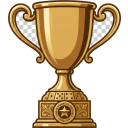
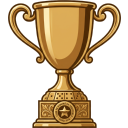
Quitar el fondo que quedaba atrapado dentro de las asas de la copa
El recorte entra desde el borde de la imagen, asi que no llegaba al
hueco cerrado del aro de las asas y ahi quedaba una mancha clara.

Se agrego la opcion de borrar el gris este donde este, sin pedir que se
alcance desde el borde. Es seguro para estos dibujos porque el dorado
nunca se acerca al gris: medido, no baja de dif 70, y el corte esta en
16. En una ficha NO se puede usar, porque el punto negro tambien es
gris; queda dicho en el comentario de la funcion.

Changed region(s): [[0.6875, 0.0625, 0.9062, 0.375], [0.125, 0.0625, 0.3125, 0.375]]

diff --git a/contexto/README.md b/contexto/README.md
@@ -4738,3 +4738,31 @@ copiarlas seria arreglar cada cosa dos veces.
 Gemini le metio texto que no se le pidio: **"CLUB DE DOMINÓ DE VENEZUELA · FUND. 1978"**. A
 32 pixeles no se lee y funciona como textura, pero **la fecha es inventada**. Si alguna vez
 estos dibujos se usan en grande —una camiseta, un cartel—, ese texto hay que quitarlo.
+
+
+---
+
+## 109. El fondo atrapado dentro de las asas
+
+Jonathan, sobre el icono de torneos: *"dentro de las asas para agarrar la copa quedo un
+blanco feo"*.
+
+**La causa.** El recorte del fondo entra **desde el borde de la imagen** hacia adentro. El
+aro de un asa es un agujero cerrado: el fondo de ahi dentro no se toca con el borde, el
+relleno no llega, y quedaba el cuadriculado a la vista.
+
+**El arreglo.** Una opcion nueva que borra el gris **este donde este**, sin pedir que se
+alcance desde el borde.
+
+**Por que es seguro aqui, medido:**
+
+| | separacion del gris puro |
+| --- | --- |
+| fondo atrapado en el asa | 0 a 3 |
+| oro de la copa, hasta en sus brillos | **70 a 137** |
+
+Con el corte en 16 hay muchisimo margen.
+
+**Donde NO se puede usar:** en las fichas. El punto negro tambien es gris, y borrar todo lo
+gris se lo llevaria. Queda escrito en el comentario de la funcion para que nadie lo active
+ahi por comodidad.
